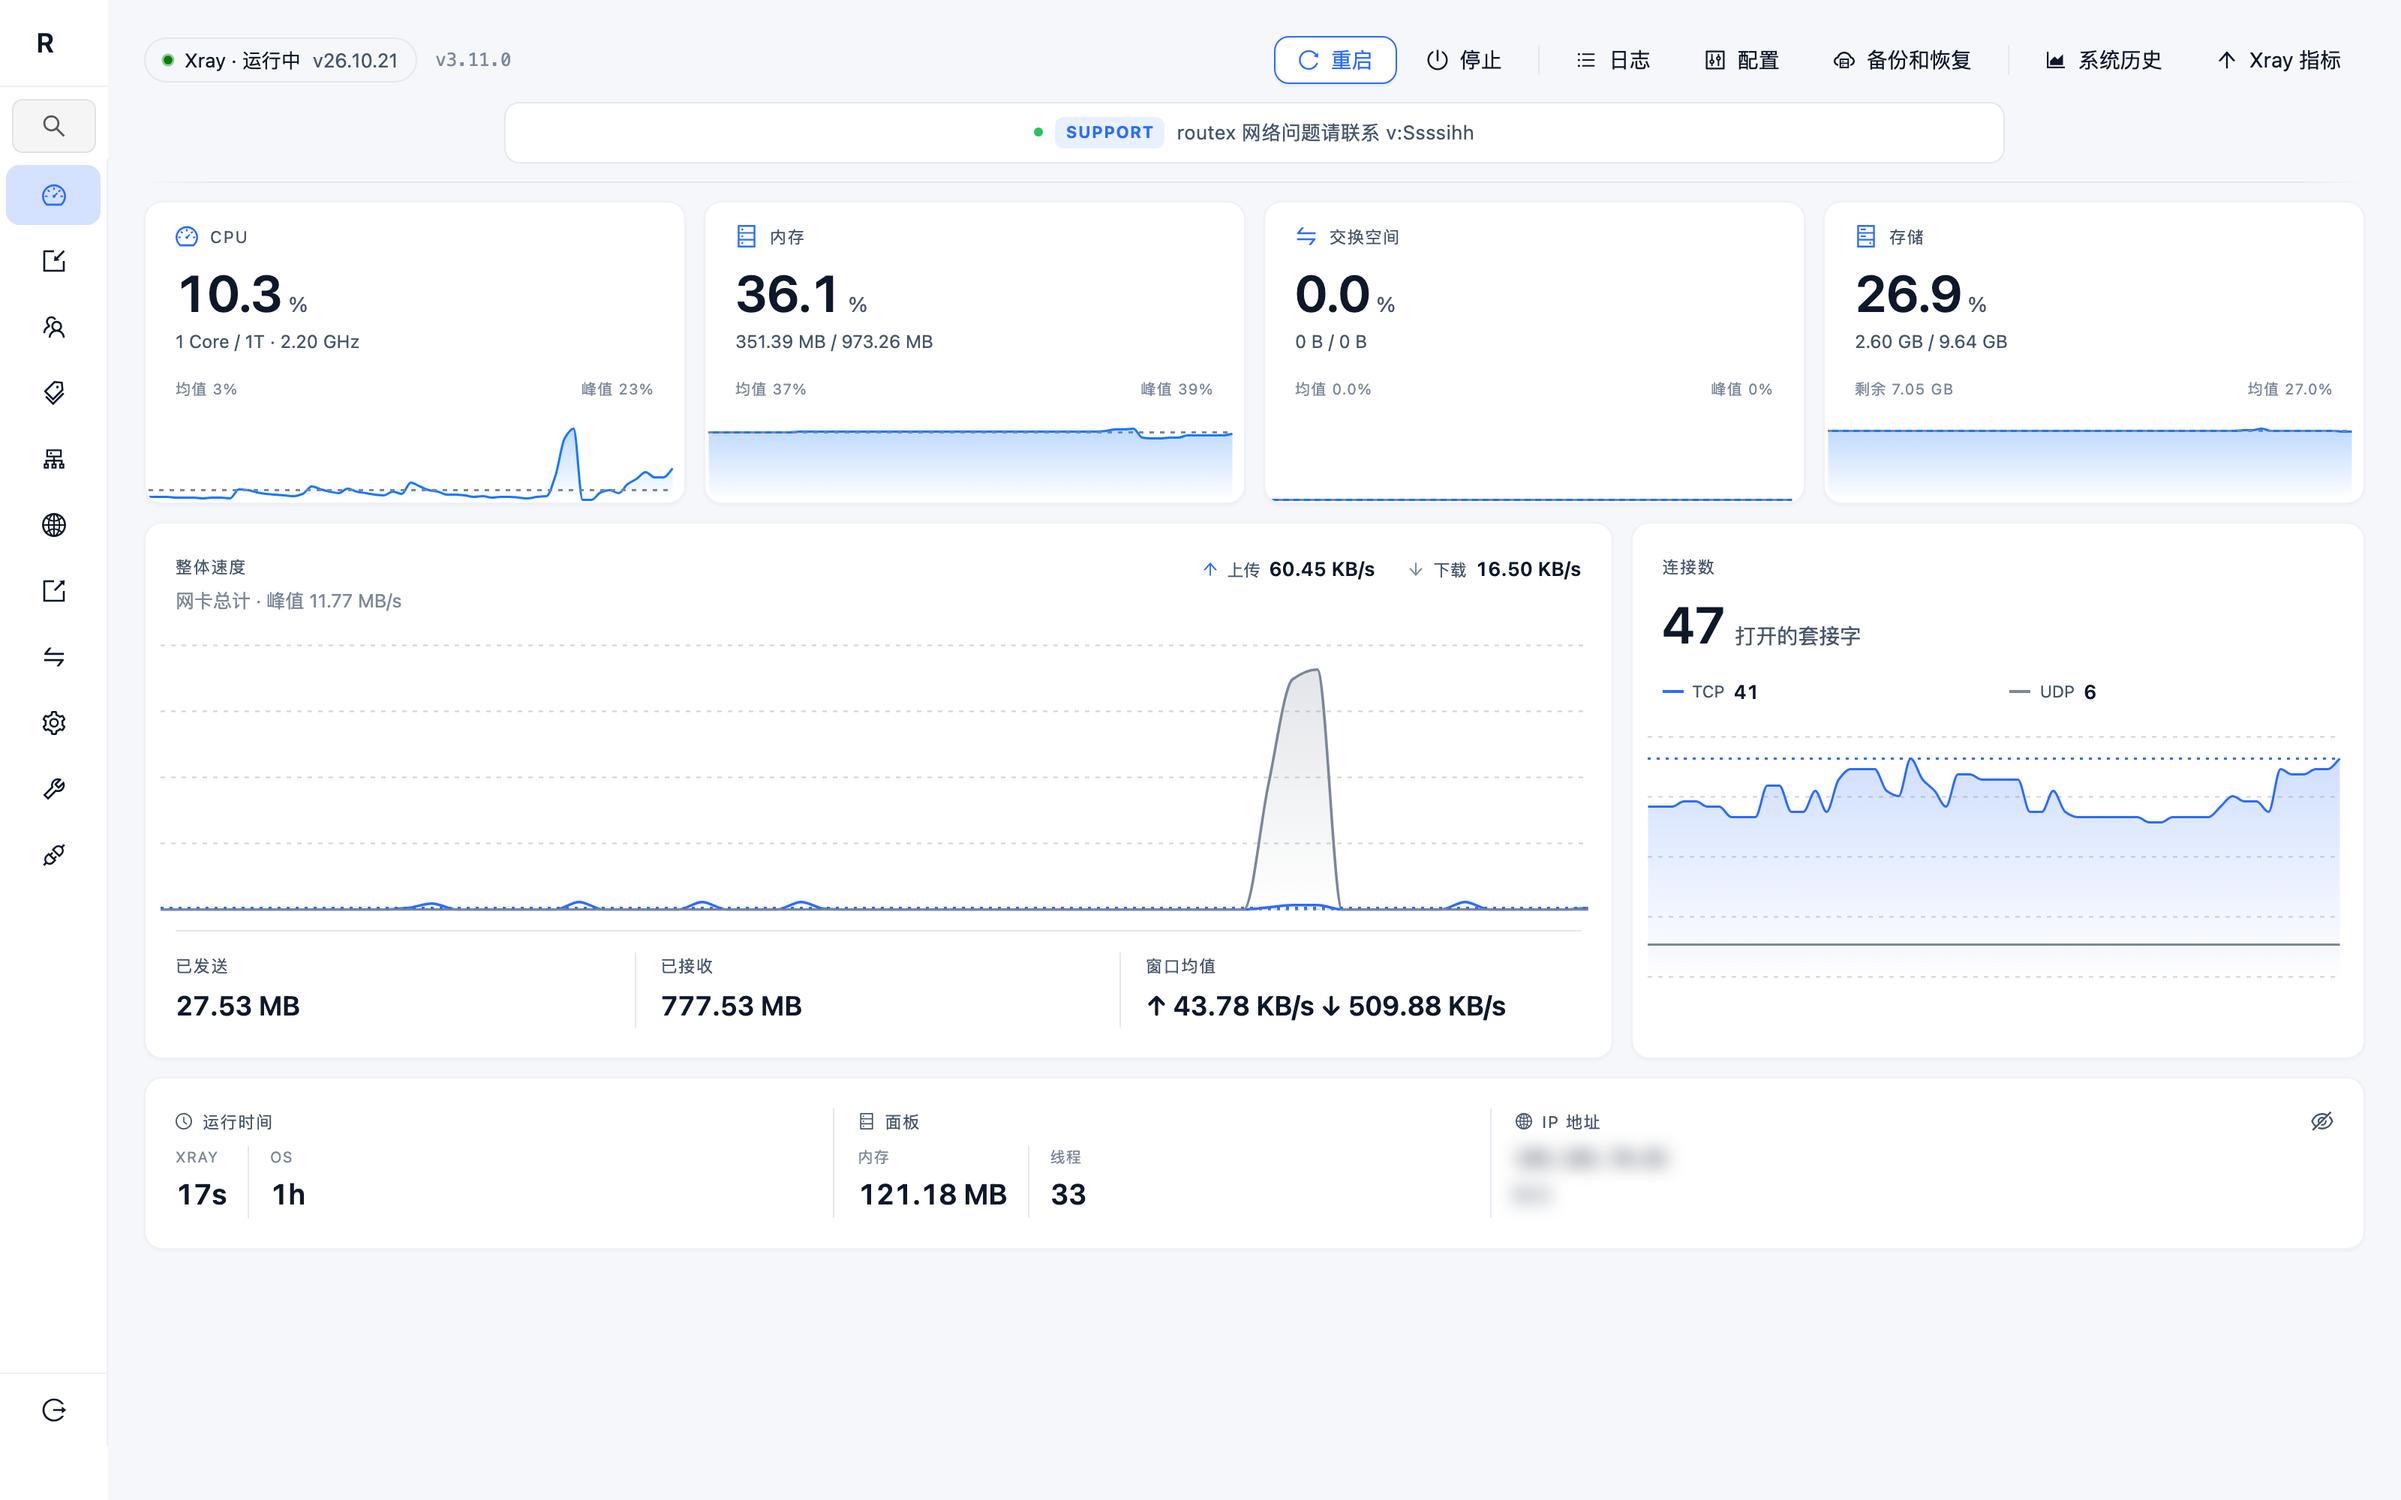
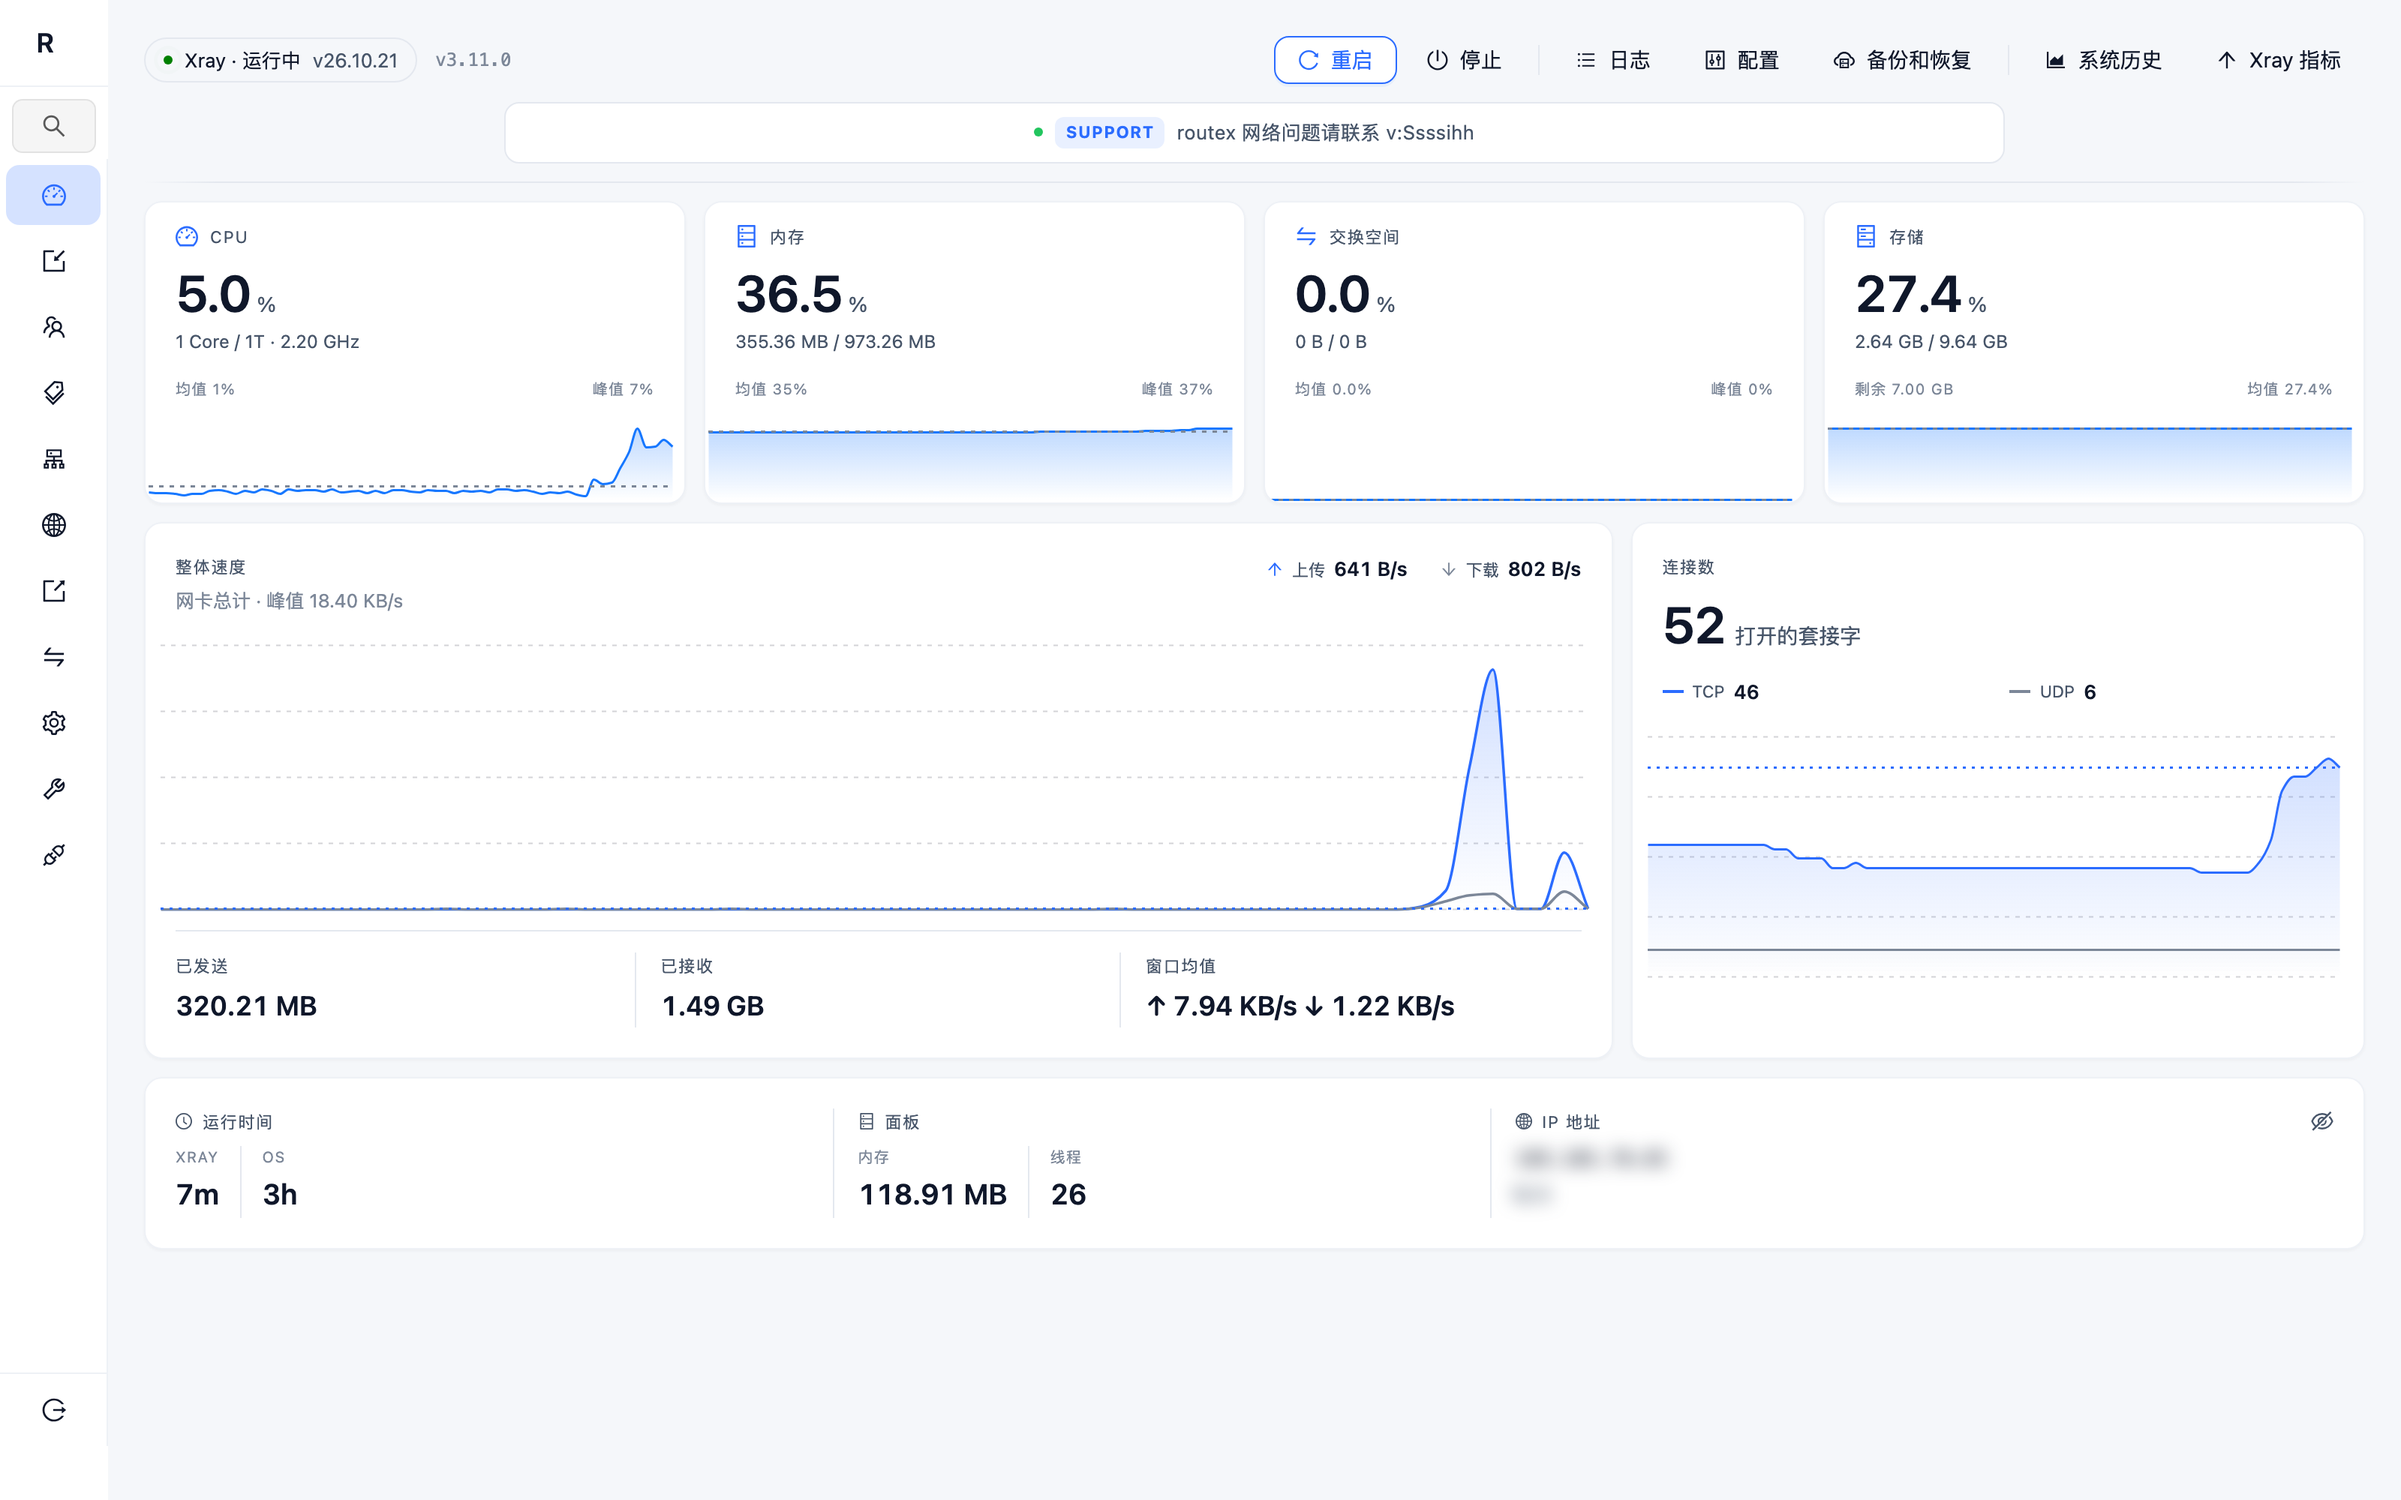
docs: 更新为白色主题截图（面板登录/仪表盘/节点/门户），移除改密弹窗图

diff --git a/README.md b/README.md
@@ -64,6 +64,16 @@ bash <(curl -fsSL http://你的服务器:8090/install-routex.sh)
 
 `XO_SRC_URL` 有值时，`bootstrap.sh` 会自动把面板二进制也指向同一个源的 `x-ui-linux-amd64`，不需要再单独配。
 
+## 0.9 界面预览
+
+| 面板登录 | 仪表盘 |
+|---|---|
+| ![login](docs/routex-login.png) | ![dashboard](docs/routex-dashboard.png) |
+
+| 节点列表 | 8080 门户（手机） |
+|---|---|
+| ![inbounds](docs/routex-inbounds.png) | ![portal](docs/portal-light-mobile.png) |
+
 ## 1. 快速开始
 
 ### 方式 A：客户机器一条命令（交互菜单）
